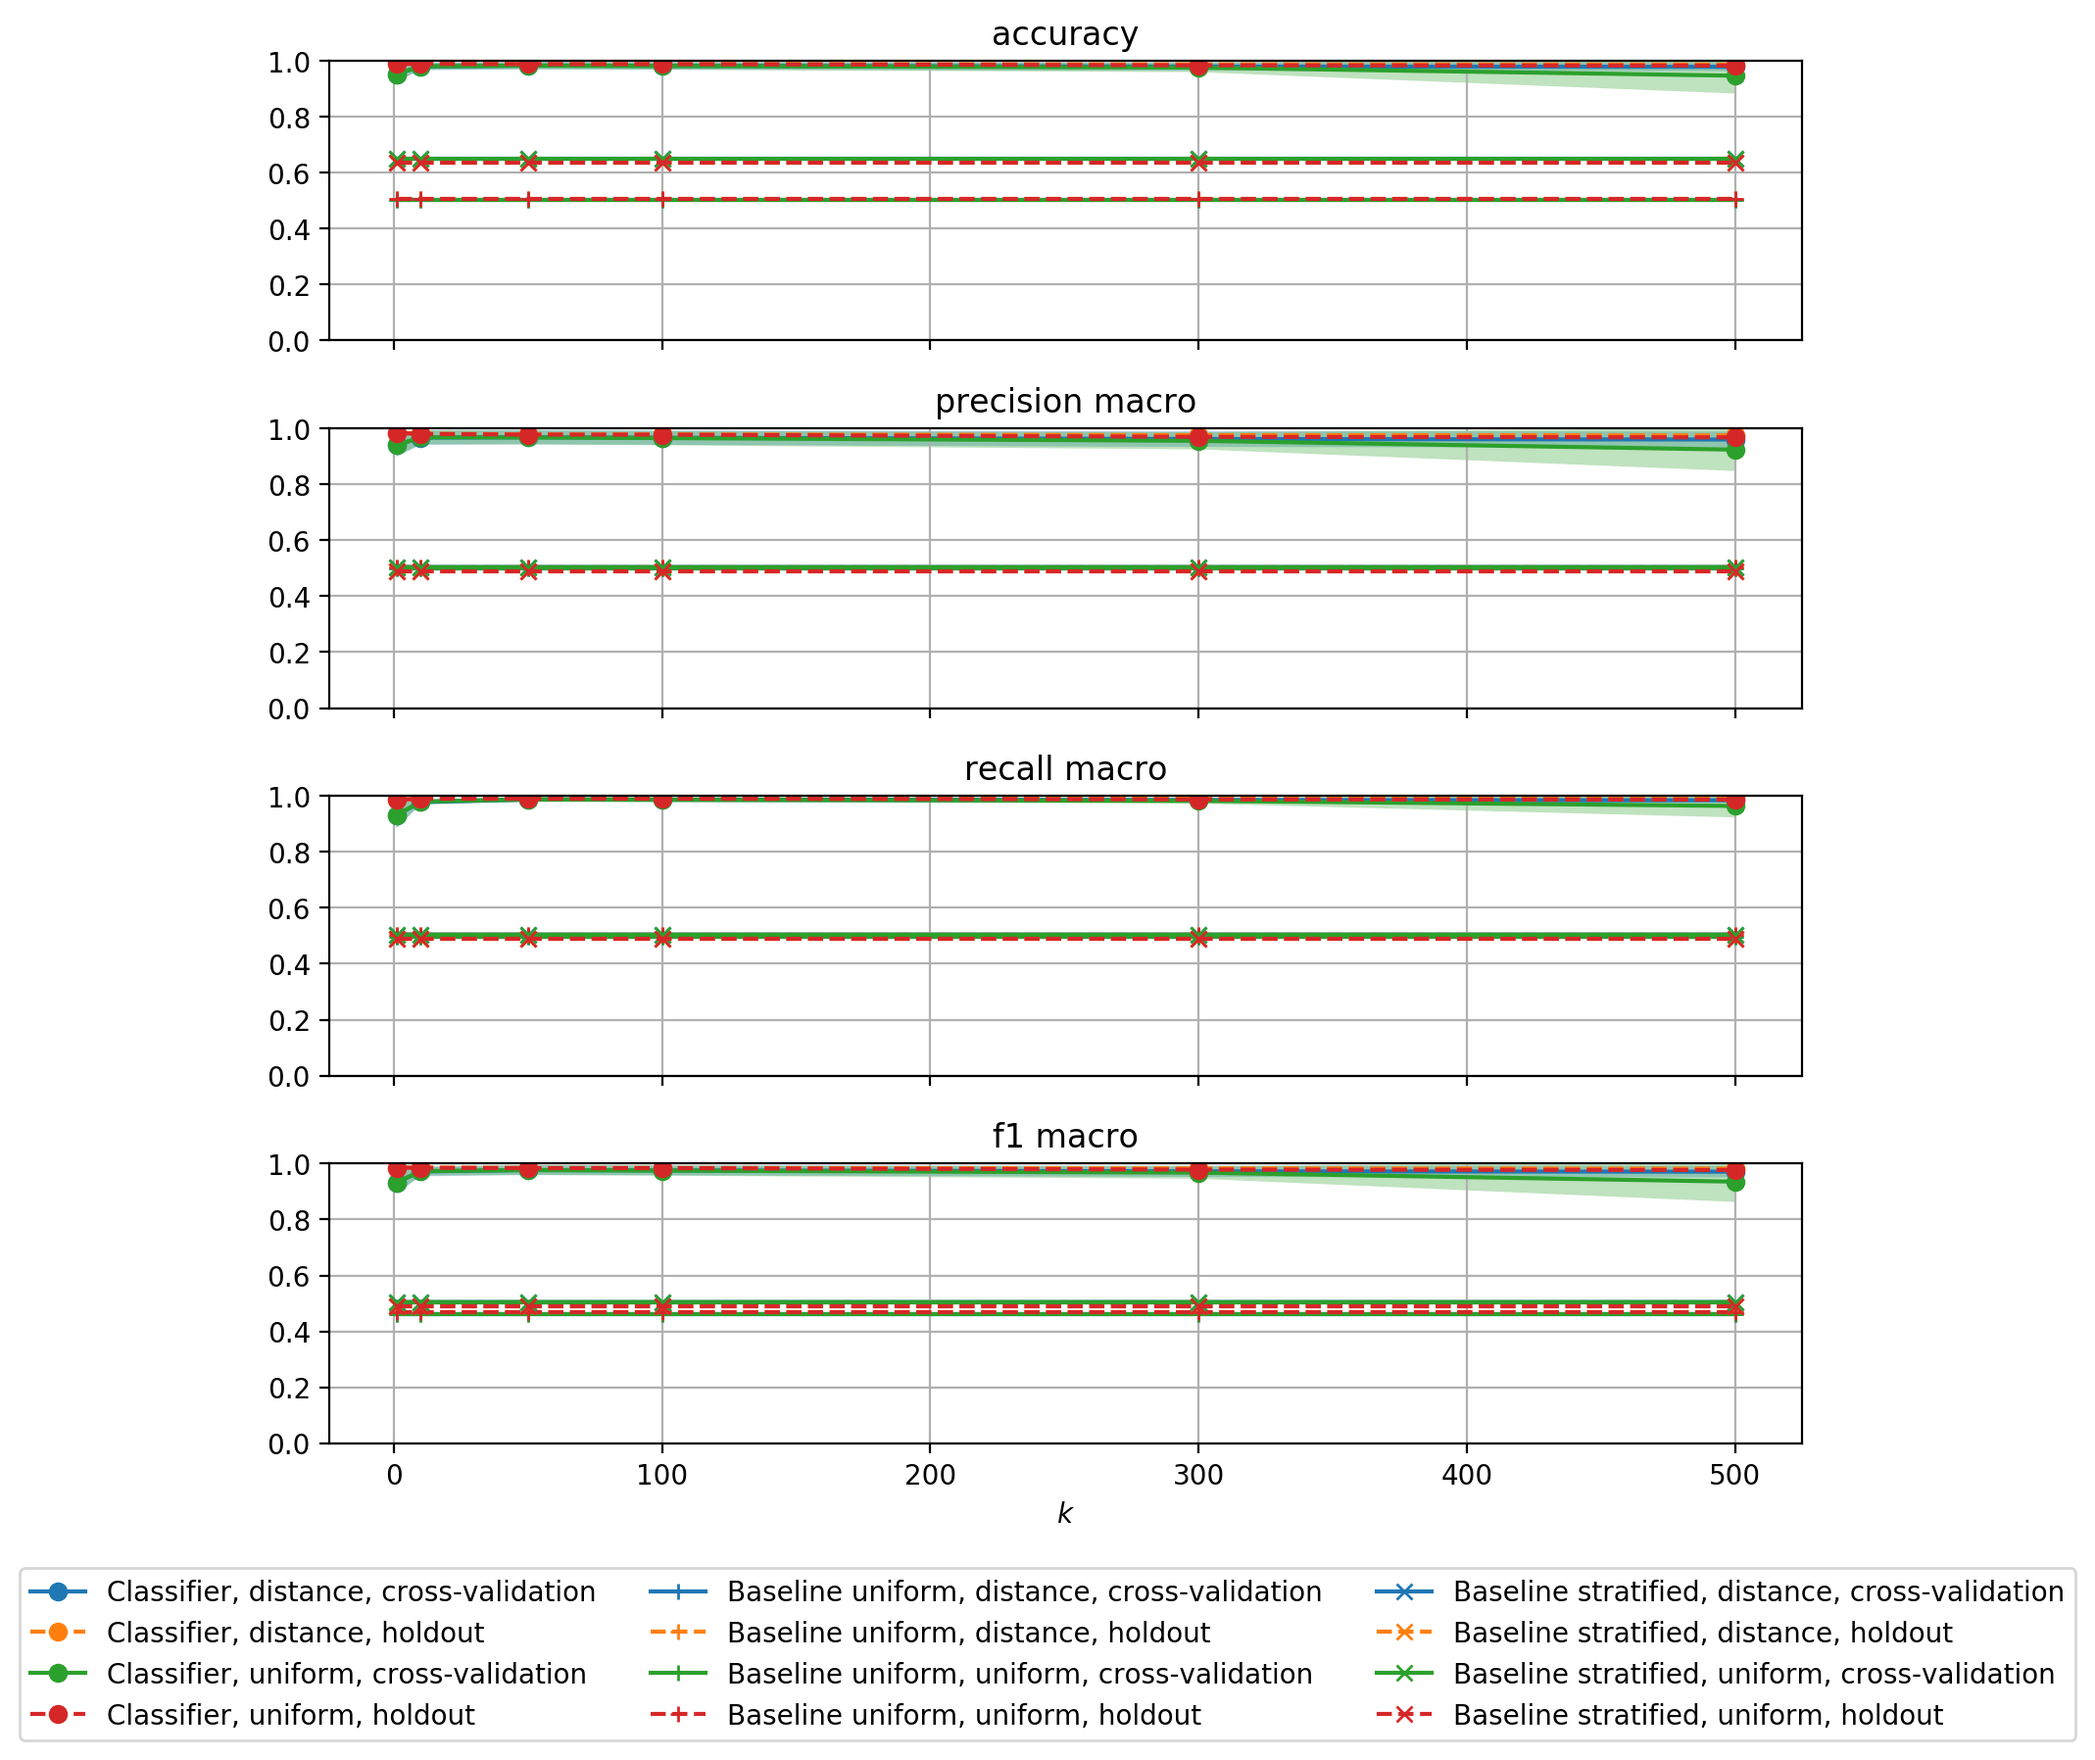
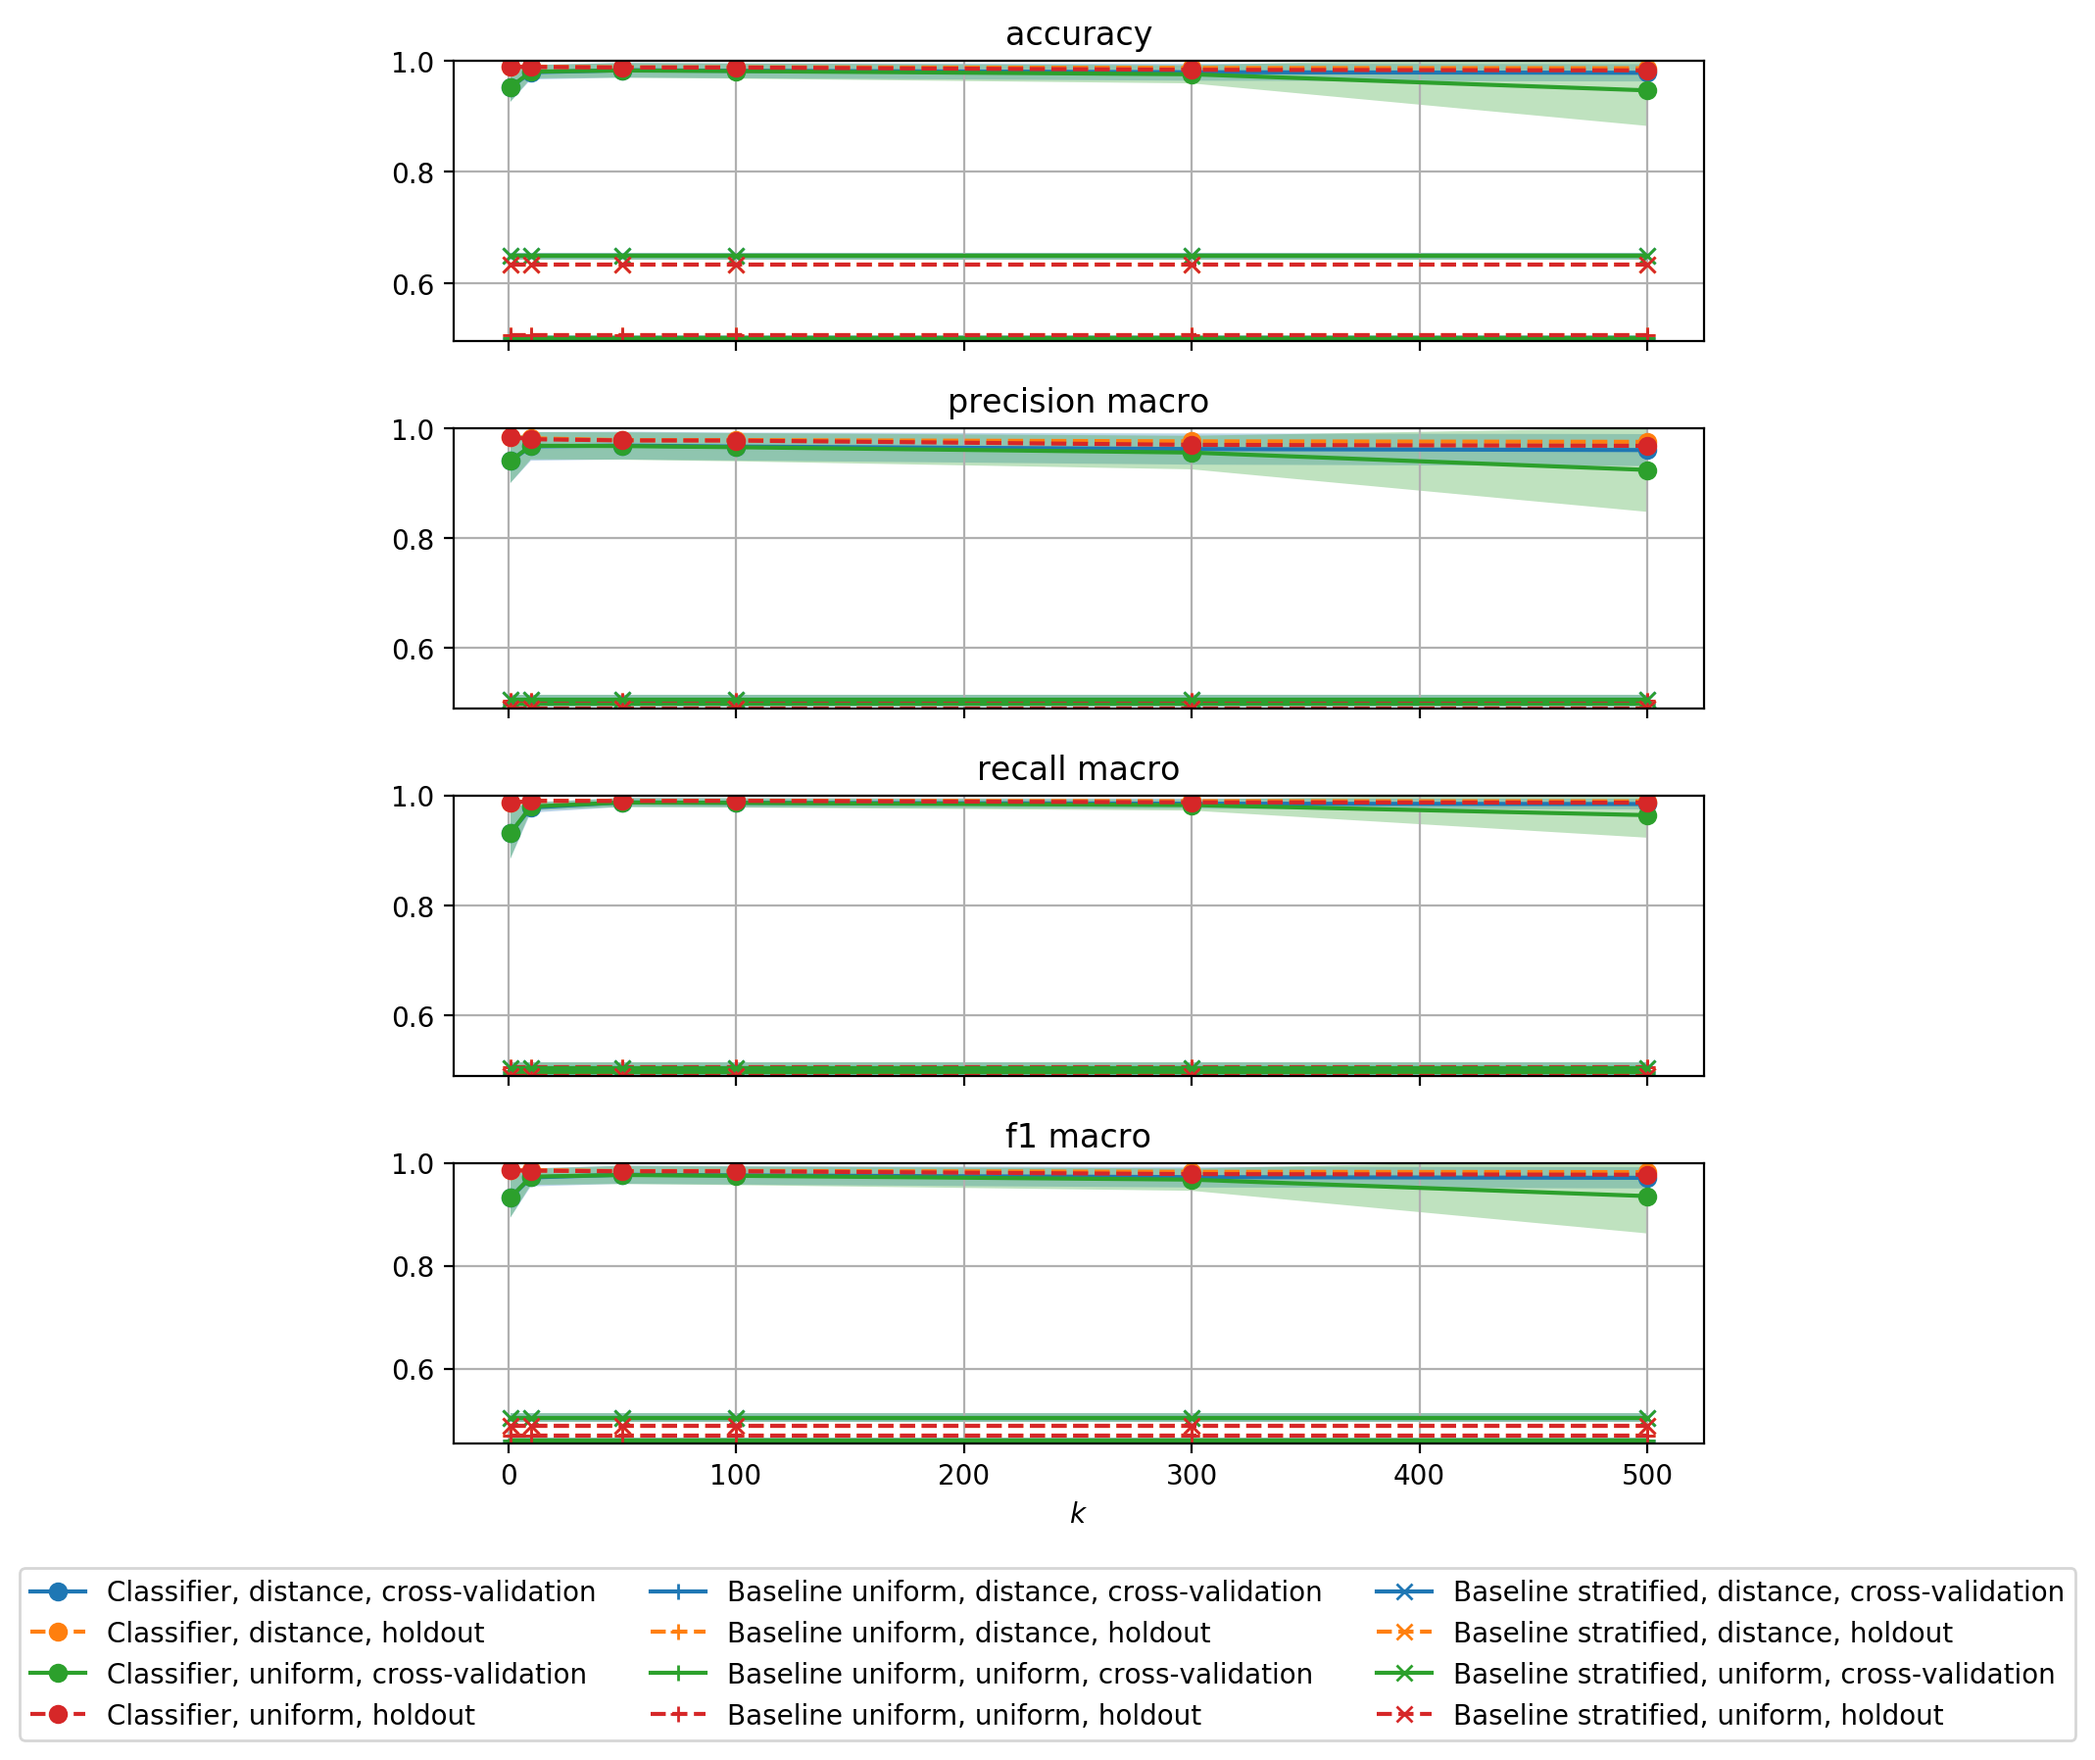
changed y-limits in plot_evaluation_knn

Changed region(s): [[0.1543, 0.0, 0.8644, 0.8419], [0.1235, 0.686, 0.1543, 0.7171], [0.1235, 0.4677, 0.1543, 0.4989]]

diff --git a/Exercise 2/functions.py b/Exercise 2/functions.py
@@ -348,7 +348,7 @@ def plot_evaluation_knn(path: str = None, filename: str = None):
           for s in scalings:
             with sns.color_palette(n_colors=len(weights) * len(validation_methods)):
                 fig, ax = plt.subplots(int(len(evaluation.keys()) / 2), 1,
-                                    sharex='all', tight_layout=True, figsize=(8, 8))
+                                    sharex='all', tight_layout=True, figsize=(7, 8))
 
             linestyle_cycle = ['-', '--'] * 3
             marker_cycle = ['o', '+', 'x']
@@ -384,7 +384,13 @@ def plot_evaluation_knn(path: str = None, filename: str = None):
                     ax[pos].set_ylim(0, (evaluation[evaluation.keys()[2 * pos]]+
                             evaluation[evaluation.keys()[2 * pos + 1]]).max())
                 elif key == 'effectiveness':
-                    ax[pos].set_ylim(0, 1)
+                    # Limits shall be range of scores (mean +- sd) to
+                    # be the same in all figures
+                    ymin = max(0, (evaluation[evaluation.keys()[2 * pos]] - 
+                            evaluation[evaluation.keys()[2 * pos + 1]]).min())
+                    ymax = min(1, (evaluation[evaluation.keys()[2 * pos]] + 
+                            evaluation[evaluation.keys()[2 * pos + 1]]).max())
+                    ax[pos].set_ylim(ymin, ymax)
 
             plt.xlabel(r'$k$')
 

diff --git a/Exercise 2/occupancy.py b/Exercise 2/occupancy.py
@@ -122,17 +122,16 @@ if False:
         cfg.default.occupancy_figures,
         'knn')
 
-if False:
+if True:
+    # Plot performance (efficiency and effectiveness)
     functions.plot_evaluation_knn(cfg.default.occupancy_figures, 'knn')
 
 if False:
-    # Out of cross-validation find classifier with best accuracy
+    # For cross-validation scatter-plot accuracy mean and standard deviation
     functions.plot_accuracy_knn(cfg.default.occupancy_figures, 'knn')
 if False:
+    # Look at the plot from before and find classifier with best accuracy
     # MANUALLY TO BE CONFIGURED!!
-
-    # Looking at the plot from before, we choose the best accuracy and find
-    # corresponding classifier
     path = cfg.default.occupancy_figures
     filename = 'knn'
     evaluation = pd.read_hdf(os.path.join(path, filename + '_evaluation.h5'),
